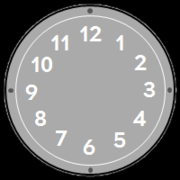
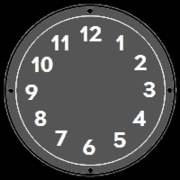
Darken the grays by one shade for Chalk.
Unfortunately, the grays are washed out on Chalk. This results in a very light watchface. So, for Chalk we darken the minute hand from GColorDarkGray to GColorBlack, we darken the 12,3,6,9 dots from Dark Gray to Black, and we darken the clock background from Light Gray to Dark Gray. We *might* be able to use Light Gray for some shadows on the hour plate.

diff --git a/src/c/clock.c b/src/c/clock.c
@@ -101,7 +101,11 @@ static void min_layer_update_proc( Layer *layer, GContext *ctx ) {
     .y = ( -cos_lookup( min_angle ) * MIN_HAND_LENGTH / TRIG_MAX_RATIO ) + center_pt.y
   };
   graphics_context_set_antialiased( ctx, true );
+  #if PBL_DISPLAY_WIDTH == 180
+  graphics_context_set_stroke_color( ctx, GColorBlack ); // A terrible hack to overcome the washed out grays on the Round :'(
+  #else
   graphics_context_set_stroke_color( ctx, GColorDarkGray );
+  #endif
   graphics_context_set_stroke_width( ctx, MIN_HAND_WIDTH );
   graphics_draw_line( ctx, GPoint( PBL_DISPLAY_WIDTH / 2, PBL_DISPLAY_WIDTH / 2 ), min_hand );
 }
